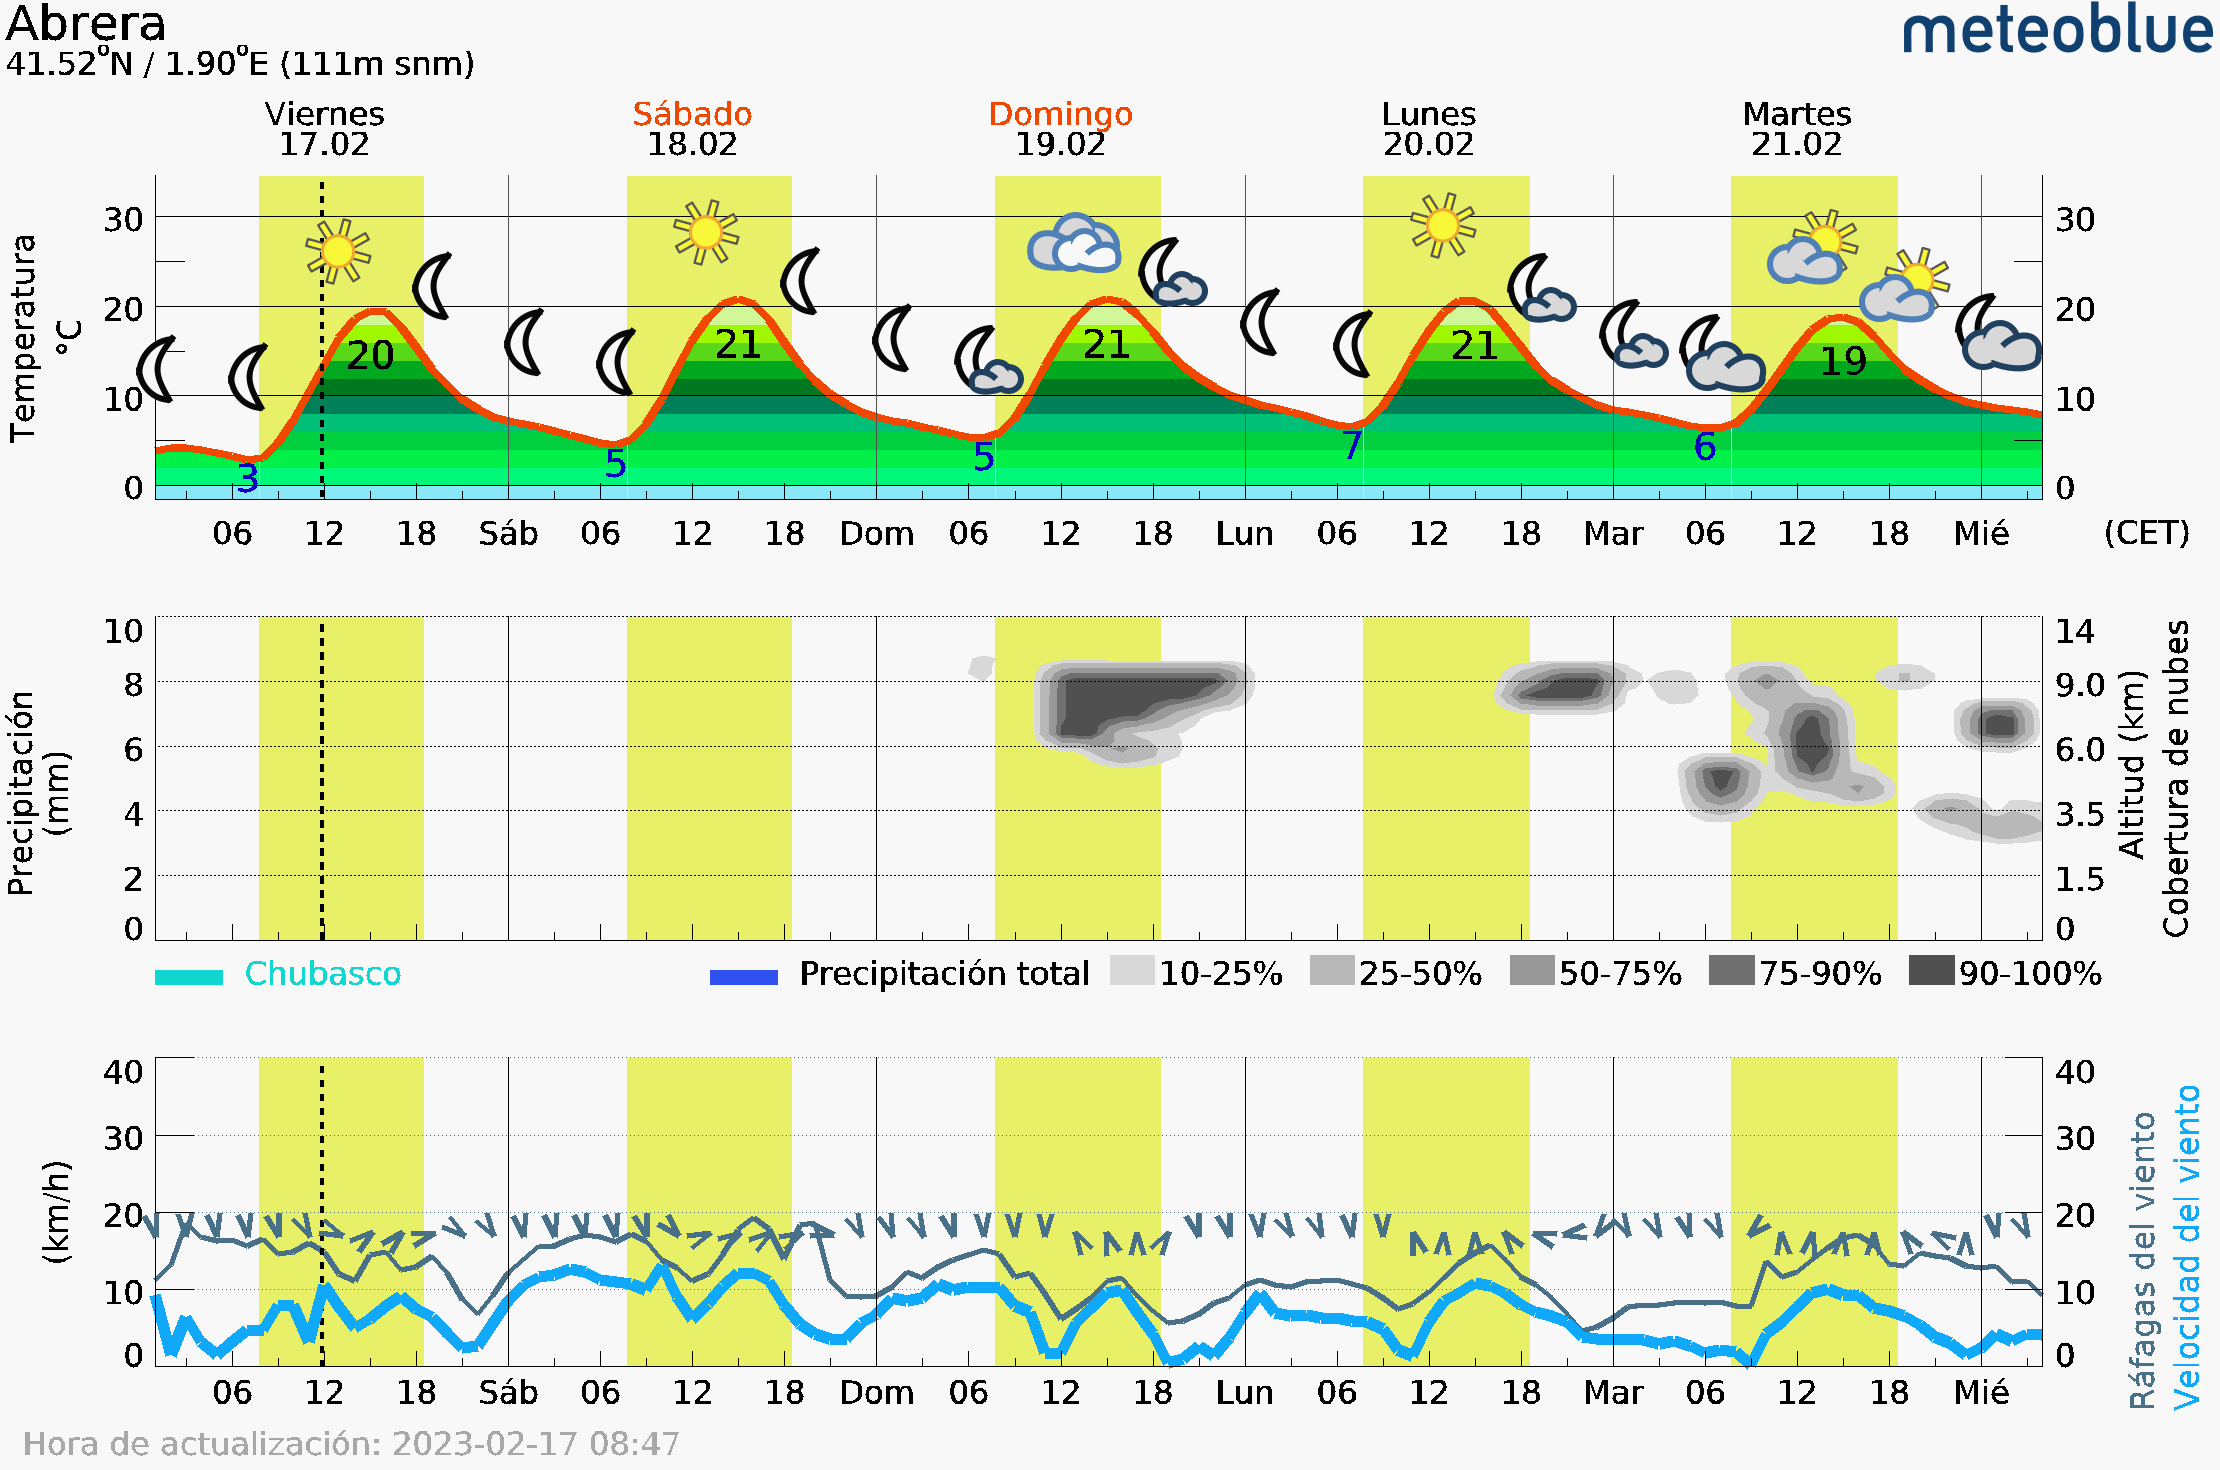
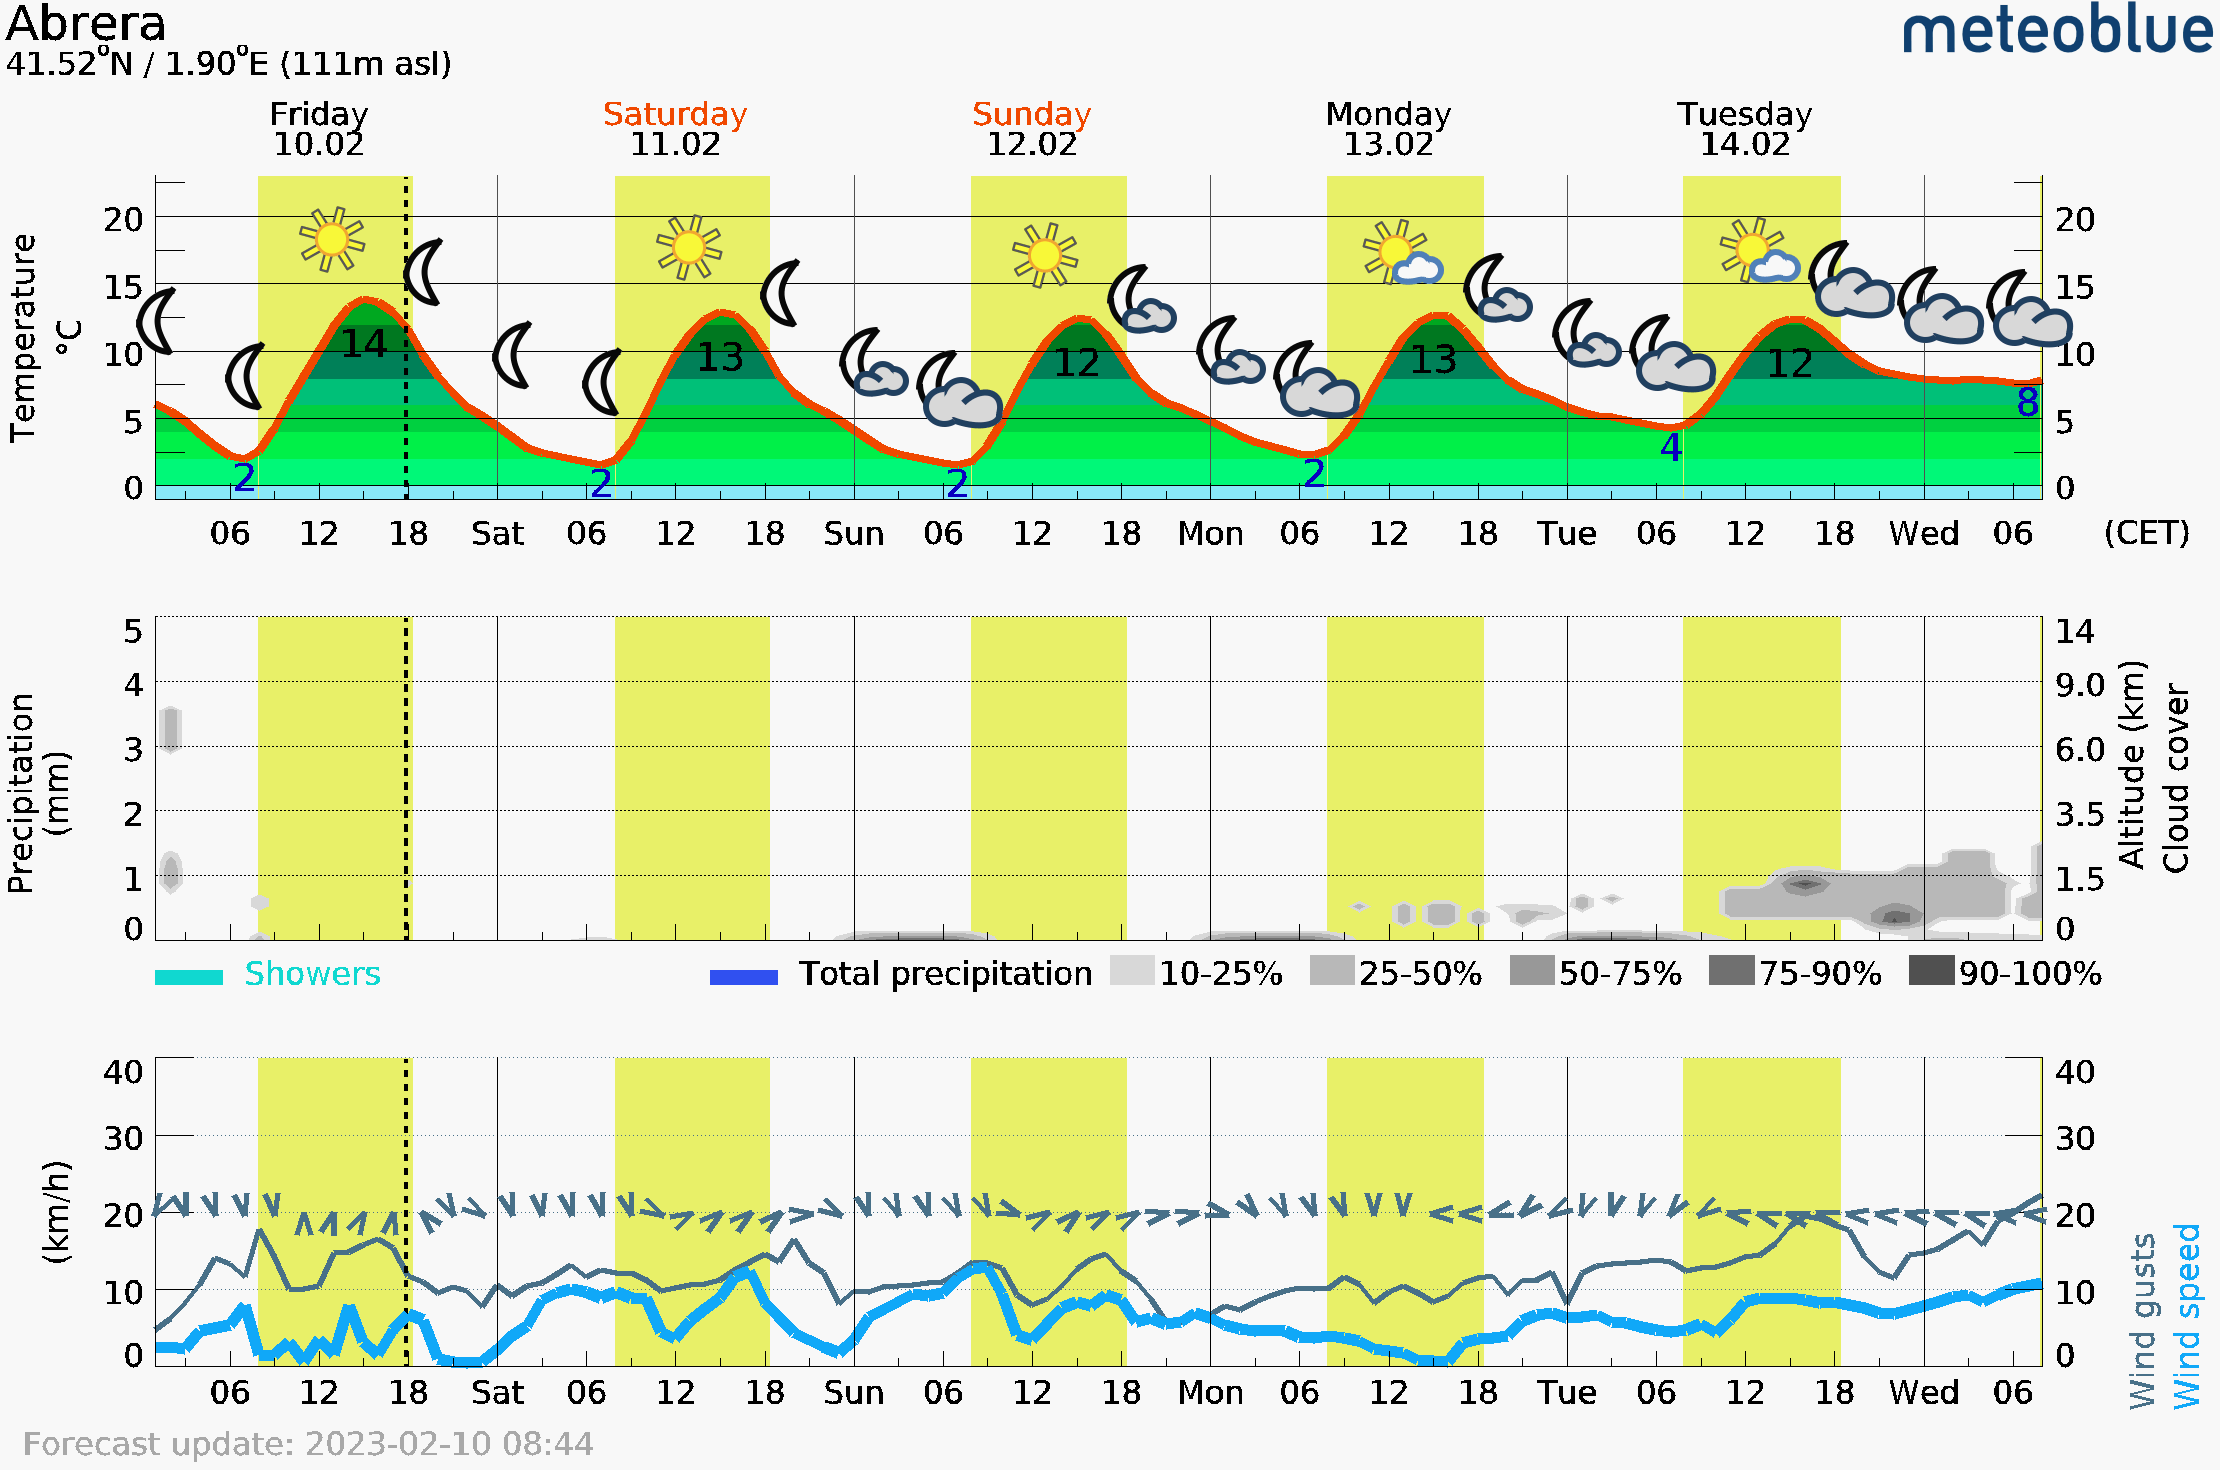
CODI 19 - Vinculant la icona a la funció

diff --git a/ui.go b/ui.go
@@ -1,9 +1,10 @@
 package main
 
 import (
-	"fyne.io/fyne/v2/theme"
+	"fyne.io/fyne/v2"
 	"fyne.io/fyne/v2/canvas"
 	"fyne.io/fyne/v2/container"
+	"fyne.io/fyne/v2/theme"
 )
 
 func (app *Config) makeUI() {
@@ -38,4 +39,14 @@ func (app *Config) makeUI() {
 
 	//Invoquem la pàgina principal i fem servir el mètode SetContent per afegir el contenidor
 	app.MainWindow.SetContent(finalContent)
+}
+
+func (app *Config) actualitzarClimaDadesContent() {
+	precipitacio, tempMax, tempMin, humitat := app.getClimaText()
+	app.ClimaDadesContainer.Objects = []fyne.CanvasObject{precipitacio, tempMax, tempMin, humitat}
+	app.ClimaDadesContainer.Refresh()
+
+	grafic := app.obtenirGrafic()
+	app.PronosticGraficContainer.Objects = []fyne.CanvasObject{grafic}
+	app.PronosticGraficContainer.Refresh()
 }

diff --git a/pronostic-pestanya.go b/pronostic-pestanya.go
@@ -25,6 +25,7 @@ func (app *Config) pronosticTab() *fyne.Container {
 
 func (app *Config) obtenirGrafic() *canvas.Image {
 	//Definim la url de carrega del gràfic
+	//apiURL := fmt.Sprintf("https://www.aemet.es/es/eltiempo/prediccion/municipios/mostrarwidget/baga-id08016?w=g4p11111111ohmffffffw992z323x4f86d9t95b6e9r1s8n2")
 	apiURL := fmt.Sprint("https://my.meteoblue.com/visimage/meteogram_web_hd?look=KILOMETER_PER_HOUR%2CCELSIUS%2CMILLIMETER&apikey=5838a18e295d&temperature=C&windspeed=kmh&precipitationamount=mm&winddirection=3char&city=Abrera&iso2=es&lat=41.5168&lon=1.901&asl=111&tz=Europe%2FMadrid&lang=es&sig=b353aab637f77ab97ae54cbd760554f2")
 	var img *canvas.Image
 

diff --git a/toolbar.go b/toolbar.go
@@ -10,7 +10,9 @@ func (app *Config) getToolBar(win fyne.Window) *widget.Toolbar {
 	toolBar := widget.NewToolbar(
 		widget.NewToolbarSpacer(),                                      //Crearem un espaciador que empenyi els diferents items cap a la dreta
 		widget.NewToolbarAction(theme.DocumentCreateIcon(), func() {}), //Crearem una nova acció indicant quina icona i quina funcio estaràn involucrades
-		widget.NewToolbarAction(theme.ViewRefreshIcon(), func() {}),
+		widget.NewToolbarAction(theme.ViewRefreshIcon(), func() {
+			app.actualitzarClimaDadesContent()
+		}),
 		widget.NewToolbarAction(theme.SettingsIcon(), func() {}),
 	)
 
